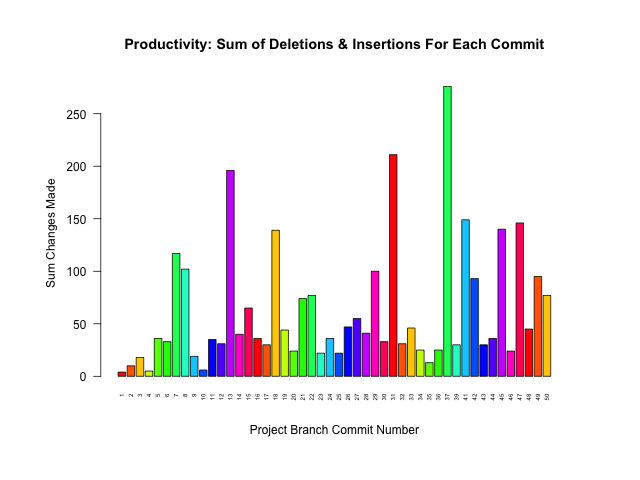
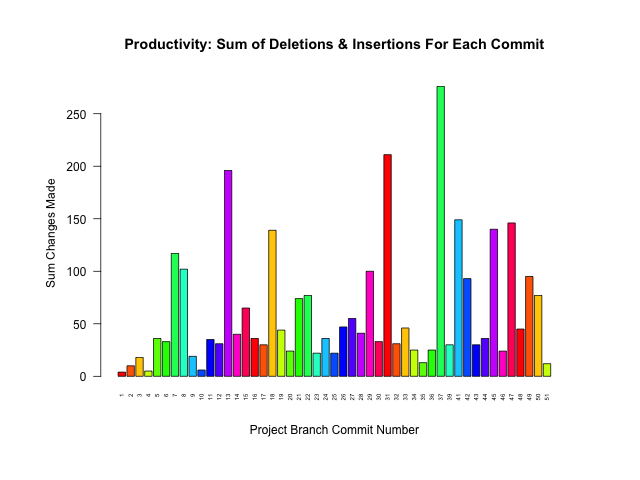
COMMIT #216

Changed region(s): [[0.1875, 0.1562, 0.875, 0.7812], [0.2812, 0.8125, 0.8438, 0.8438]]

diff --git a/README.md b/README.md
@@ -17,8 +17,8 @@ ProjectName::BranchName.data
 
 Project Name | Last Updated | # Commits | # Branches | Branches Merged
 :---|:---:|:---:|:---:|:---:
-[learn_some_C.Plus.Plus](https://github.com/pierremigeon/learn_some_C.Plus.Plus)                    |  2023-06-20  |  50   |  1  |  100%  (1/1)
-[commit_tracker](https://github.com/pierremigeon/commit_tracker)                                    |  2023-06-19  |  214  |  1  |  100%  (1/1)
+[learn_some_C.Plus.Plus](https://github.com/pierremigeon/learn_some_C.Plus.Plus)                    |  2023-06-20  |  51   |  1  |  100%  (1/1)
+[commit_tracker](https://github.com/pierremigeon/commit_tracker)                                    |  2023-06-20  |  215  |  1  |  100%  (1/1)
 [libft](https://github.com/pierremigeon/libft)                                                      |  2023-06-05  |  30   |  2  |  50%   (1/2)
 [ft_printf](https://github.com/pierremigeon/ft_printf)                                              |  2023-06-01  |  37   |  2  |  100%  (2/2)
 [minishell](https://github.com/pierremigeon/minishell)                                              |  2023-05-20  |  78   |  8  |  88%   (7/8)
